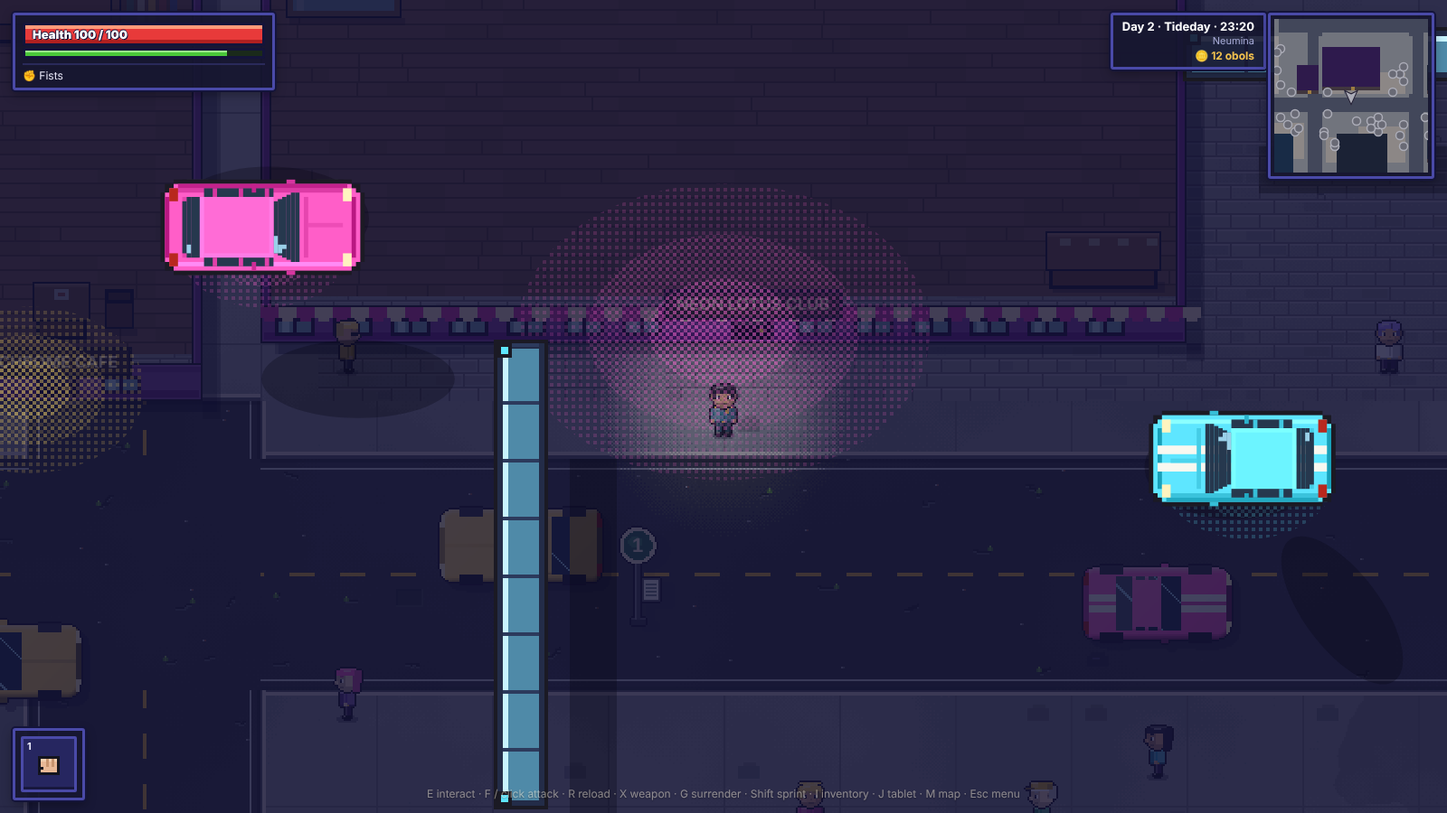
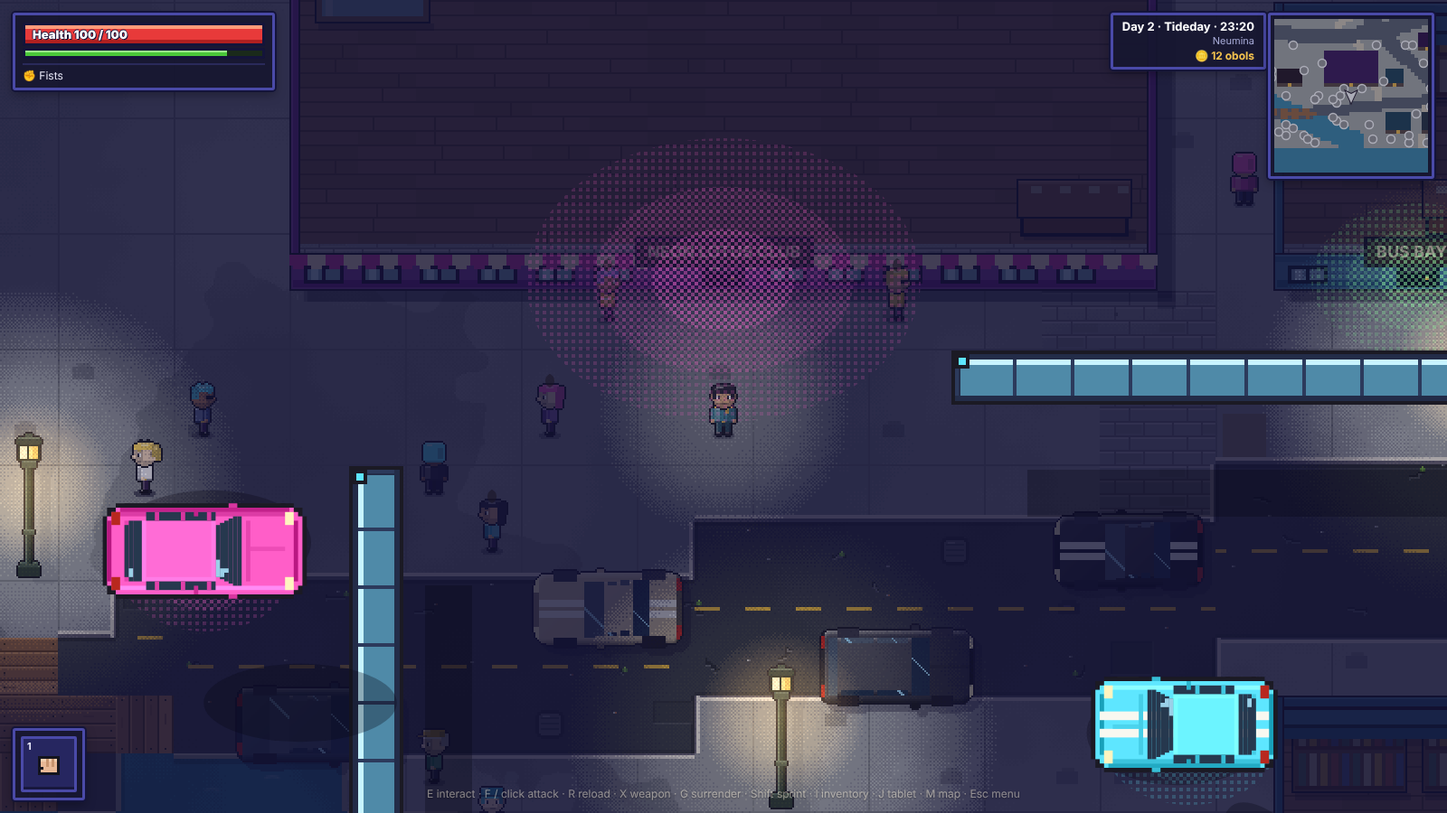
Post-War mock-ups: organic cities (hub-and-spoke Neumina with canal and ring road; curved harbour Saint Halloran with river, diagonal boulevard and winding lanes), re-shot in the game's own engine
Claude-Session: https://claude.ai/code/session_01TDGC6Q79idfz2CwS4VYJ4q

diff --git a/docs/mockups/postwar-src/organic.js b/docs/mockups/postwar-src/organic.js
@@ -1,0 +1,58 @@
+// Organic city generator (mock only): roads are curves stamped onto the game's tile grid, buildings are placed off the roads wherever a
+// door can reach pavement. Output is the game's own map format, drawn by the game's own renderer.
+import { STYLES } from './pwmaps.js';
+const hash = (a, b = 0, c = 0) => { let h = ((a | 0) * 374761393 + (b | 0) * 668265263 + (c | 0) * 2147483647) >>> 0; h = ((h ^ (h >>> 13)) * 1274126177) >>> 0; return ((h ^ (h >>> 16)) >>> 0) / 4294967296; };
+const pick = (arr, k, s = 0) => arr[Math.floor(hash(k, arr.length, 7 + s) * arr.length) % arr.length];
+export function smooth(pts, seg = 10) { const P = [pts[0], ...pts, pts[pts.length - 1]]; const out = []; for (let i = 1; i < P.length - 2; i++) { const [p0, p1, p2, p3] = [P[i - 1], P[i], P[i + 1], P[i + 2]]; for (let k = 0; k < seg; k++) { const t = k / seg, t2 = t * t, t3 = t2 * t; out.push([0, 1].map((j) => 0.5 * (2 * p1[j] + (-p0[j] + p2[j]) * t + (2 * p0[j] - 5 * p1[j] + 4 * p2[j] - p3[j]) * t2 + (-p0[j] + 3 * p1[j] - 3 * p2[j] + p3[j]) * t3))); } } out.push(pts[pts.length - 1]); return out; }
+export function organic(cfg) {
+  const { W, H } = cfg; const base = cfg.ground || ','; const g = Array.from({ length: H }, () => Array(W).fill(base));
+  const inb = (x, y) => x >= 0 && y >= 0 && x < W && y < H; const set = (x, y, c) => { if (inb(x, y)) g[y][x] = c; }; const get = (x, y) => (inb(x, y) ? g[y][x] : 'x');
+  const T = {
+    get, set, W, H,
+    where(fn, c) { for (let y = 0; y < H; y++) for (let x = 0; x < W; x++) if (fn(x, y)) g[y][x] = c; },
+    disc(cx, cy, r, c) { for (let y = Math.floor(cy - r); y <= cy + r; y++) for (let x = Math.floor(cx - r); x <= cx + r; x++) if ((x + 0.5 - cx) ** 2 + (y + 0.5 - cy) ** 2 <= r * r) set(x, y, c); },
+    stroke(path, w, c, only) { for (let i = 0; i < path.length - 1; i++) { const [a, b] = [path[i], path[i + 1]]; const n = Math.max(1, Math.ceil(Math.hypot(b[0] - a[0], b[1] - a[1]) * 2)); for (let k = 0; k <= n; k++) { const x = a[0] + (b[0] - a[0]) * k / n, y = a[1] + (b[1] - a[1]) * k / n; for (let yy = Math.floor(y - w / 2); yy <= y + w / 2; yy++) for (let xx = Math.floor(x - w / 2); xx <= x + w / 2; xx++) if ((xx + 0.5 - x) ** 2 + (yy + 0.5 - y) ** 2 <= (w / 2) ** 2 && (!only || only.includes(get(xx, yy)))) set(xx, yy, c); } } },
+    rect(x, y, w, h, c) { for (let j = y; j < y + h; j++) for (let i = x; i < x + w; i++) set(i, j, c); },
+  };
+  cfg.paint(T);                                              // water, plazas, the road curves
+  const roadPaths = cfg.roads.map((r) => ({ ...r, path: smooth(r.pts, 10) }));
+  for (const r of roadPaths) { T.stroke(r.path, r.w, r.tile || '=', [base, ',', 'g', 'm', '=', '~', 'b']); }
+  // bridges: road tiles that sit where water was (re-stamp as bridge)
+  for (const r of roadPaths) for (const p of r.path) for (let y = Math.floor(p[1] - r.w / 2); y <= p[1] + r.w / 2; y++) for (let x = Math.floor(p[0] - r.w / 2); x <= p[0] + r.w / 2; x++) if (cfg.isWater?.(x, y) && (x + 0.5 - p[0]) ** 2 + (y + 0.5 - p[1]) ** 2 <= (r.w / 2) ** 2) set(x, y, 'b');
+  let st = 12345; const R = () => { st |= 0; st = (st + 0x6D2B79F5) | 0; let t = Math.imul(st ^ (st >>> 15), 1 | st); t = (t + Math.imul(t ^ (t >>> 7), 61 | t)) ^ t; return ((t ^ (t >>> 14)) >>> 0) / 4294967296; };
+  const laneTiles = [];
+  for (let k = 0; k < (cfg.lanes ?? 70); k++) { const r = roadPaths[Math.floor(R() * roadPaths.length)]; const pi = Math.floor(R() * r.path.length); const [px, py] = r.path[pi]; const nxt = r.path[Math.min(r.path.length - 1, pi + 1)], prv = r.path[Math.max(0, pi - 1)]; const an = Math.atan2(nxt[1] - prv[1], nxt[0] - prv[0]) + (R() < 0.5 ? 1 : -1) * (Math.PI / 2 + (R() - 0.5) * 0.7); const L = 8 + Math.floor(R() * 14); const off0 = r.w / 2 + 1; const pts = []; let a2 = an, x = px + Math.cos(an) * off0, y = py + Math.sin(an) * off0; pts.push([x, y]); for (let i = 0; i < L; i++) { a2 += (R() - 0.5) * 0.25; x += Math.cos(a2); y += Math.sin(a2); const tx = Math.floor(x), ty = Math.floor(y); if (!inb(tx, ty)) break; if (g[ty][tx] === '=' || g[ty][tx] === '~' || g[ty][tx] === 'b') break; pts.push([x, y]); } if (pts.length < 6) continue; T.stroke(pts, 2, cfg.laneTile || ',', [base]); for (const p of pts) laneTiles.push([Math.floor(p[0]), Math.floor(p[1])]); }
+  // distance to the nearest road tile (4-neighbour BFS), so doors can be pointed at a street
+  const dist = Array.from({ length: H }, () => Array(W).fill(99)); const q = [];
+  for (let y = 0; y < H; y++) for (let x = 0; x < W; x++) if (g[y][x] === '=' || g[y][x] === 'b' || g[y][x] === 'm') { dist[y][x] = 0; q.push([x, y]); }
+  for (const [x, y] of laneTiles) if (inb(x, y) && dist[y][x] !== 0) { dist[y][x] = 0; q.push([x, y]); }
+  for (let i = 0; i < q.length; i++) { const [x, y] = q[i]; for (const [dx, dy] of [[1, 0], [-1, 0], [0, 1], [0, -1]]) { const nx = x + dx, ny = y + dy; if (inb(nx, ny) && dist[ny][nx] > dist[y][x] + 1) { dist[ny][nx] = dist[y][x] + 1; q.push([nx, ny]); } } }
+  const occ = Array.from({ length: H }, () => Array(W).fill(false)); const free = new Set([base, ',', 'g']);
+  const REJ = { bounds: 0, occ: 0, free: 0, front: 0, reach: 0, ok: 0 }; const buildings = [], props = [], meta = { REJ, blds: [], plazas: cfg.plazas || [], roads: roadPaths.map((r) => ({ w: r.w, path: r.path, name: r.name })) }; let bn = 0, pn = 0;
+  const P = (type, x, y, o = {}) => { if (inb(x, y)) props.push({ id: `p${pn++}`, type, x, y, ...o }); };
+  const fits = (x, y, w, h) => { REJ.last = ''; if (x < 2 || y < 2 || x + w > W - 2 || y + h > H - 4) { REJ.bounds++; REJ.last = 'bounds'; return false; } for (let j = y - 1; j <= y + h + 1; j++) for (let i = x - 1; i <= x + w; i++) { if (!inb(i, j) || occ[j][i]) { REJ.occ++; REJ.last = 'occ ' + i + ',' + j; return false; } if (!(j >= y && j < y + h && i >= x && i < x + w) && g[j][i] === 'B') return false; if (!free.has(g[j][i])) { REJ.free++; REJ.last = 'free ' + g[j][i] + ' @' + i + ',' + j; return false; } } const dx = x + (w >> 1); for (let j = y + h; j <= y + h + 2; j++) if (!free.has(get(dx, j)) || occ[j]?.[dx]) { REJ.front++; REJ.last = 'front'; return false; } const okr = dist[Math.min(H - 1, y + h + 1)][dx] <= (cfg.reach || 4); okr ? REJ.ok++ : REJ.reach++; return okr; };
+  const place = (b, st) => { buildings.push(b); for (let j = b.y; j < b.y + b.h; j++) for (let i = b.x; i < b.x + b.w; i++) g[j][i] = 'B'; for (let j = b.y - 1; j <= b.y + b.h + 1; j++) for (let i = b.x - 1; i <= b.x + b.w; i++) if (inb(i, j)) occ[j][i] = true; for (let j = b.y + b.h; j <= b.y + b.h + 2; j++) occ[j] && (occ[j][b.door.x] = true); meta.blds.push({ id: b.id, name: b.name, x: b.x, y: b.y, w: b.w, h: b.h, tower: b.tower, style: st, key: b.key }); };
+  const mkBuilding = (name, x, y, w, h, S, k, o = {}) => { const wall = o.wall || pick(S.walls, k), roof = o.roof || pick(S.roofs, k + 1), trim = o.trim || pick(S.trims, k + 2), neon = o.neon || pick(S.neons, k + 3); const door = { x: x + (w >> 1), y: y + h - 1 };
+    if (o.tower) return { id: `b${bn++}`, name, mapLabel: name, x, y, w, h, tower: o.tower, wall, glass: o.glass || cfg.glass || '#8fd0e8', trim, roof, sign: o.sign || name, signColor: neon, helipad: o.helipad, door, key: o.key };
+    return { id: `b${bn++}`, name, mapLabel: name, x, y, w, h, sign: o.sign || name, signColor: neon, roof, wall, trim, flatRoof: true, awning: o.awning ?? (hash(x, y, 17) < 0.5 ? pick(S.awn, k + 4) : undefined), shabby: o.shabby, columns: o.columns, door, key: o.key }; };
+  const district = (x, y) => { let best = 1e9, bk = cfg.seeds[0]; for (const s of cfg.seeds) { const d = Math.hypot(x - s.x, y - s.y) / (s.w || 1) + (hash(x, y, 3) - 0.5) * 6; if (d < best) { best = d; bk = s; } } return bk; };
+  const used = new Set();
+  // landmarks first
+  for (const L of cfg.landmarks) { const S = STYLES[L.style || cfg.seeds[0].style]; let spot = null; const tryAt = (x, y) => fits(x, y, L.w, L.h); if (tryAt(L.x, L.y)) spot = [L.x, L.y]; for (let r = 1; r < 40 && !spot; r++) for (let a = 0; a < 24 && !spot; a++) { const x = Math.round(L.x + r * Math.cos(a / 24 * 6.283)), y = Math.round(L.y + r * Math.sin(a / 24 * 6.283)); if (tryAt(x, y)) spot = [x, y]; } if (!spot) { console.log('NO SPOT', L.name); continue; }
+    const b = mkBuilding(L.name, spot[0], spot[1], L.w, L.h, S, 5, { ...(L.o || {}), tower: L.tower, key: L.key, sign: L.sign || L.name, helipad: L.o?.helipad }); used.add(L.name); place(b, L.style || 'landmark'); }
+  // fill
+  for (let pass = 0; pass < cfg.passes.length; pass++) { const ps = cfg.passes[pass]; for (let i = 0; i < ps.tries; i++) { const x = 2 + Math.floor(R() * (W - 4)), y = 2 + Math.floor(R() * (H - 8)); const sd = district(x, y); const S = STYLES[sd.style]; if (!S) continue;
+      const w = (sd.wmin || 5) + Math.floor(R() * ((sd.wmax || 10) - (sd.wmin || 5) + 1)) - ps.shrink, h = (sd.dmin || 6) + Math.floor(R() * ((sd.dmax || 9) - (sd.dmin || 6) + 1)) - ps.shrink; if (w < 4 || h < 4) continue; if (!fits(x, y, w, h)) continue;
+      let name = pick(S.names, x * 31 + y * 7 + i); for (let t = 0; used.has(name) && t < S.names.length; t++) name = S.names[(S.names.indexOf(name) + 1) % S.names.length]; used.add(name);
+      const isT = (sd.towers || 0) > R() && w >= 6 && h >= 7; const k = Math.floor(hash(x, y, 11) * 1000);
+      place(mkBuilding(name, x, y, w, h, S, k, { tower: isT ? 9 + Math.floor(R() * 24) : 0, helipad: isT && hash(i, pass, 10) < 0.3, shabby: sd.shabby && hash(i, pass, 12) < 0.4, columns: sd.columns && hash(i, pass, 13) < 0.5 }), sd.style); } }
+  // street furniture: lamps along each road, a few other props on pavement beside roads
+  for (const r of roadPaths) { let acc = 0, side = 1; for (let i = 1; i < r.path.length; i++) { const [a, b] = [r.path[i - 1], r.path[i]]; acc += Math.hypot(b[0] - a[0], b[1] - a[1]); if (acc < (cfg.lampStep || 12)) continue; acc = 0; side = -side; const an = Math.atan2(b[1] - a[1], b[0] - a[0]); const off = r.w / 2 + 0.9; const x = Math.round(b[0] - Math.sin(an) * off * side - 0.5), y = Math.round(b[1] + Math.cos(an) * off * side - 0.5); if (free.has(get(x, y)) && !props.some((p) => p.x === x && p.y === y)) P('streetlamp', x, y); } }
+  for (let y = 2; y < H - 2; y++) for (let x = 2; x < W - 2; x++) if (free.has(g[y][x]) && dist[y][x] === 1 && hash(x, y, 77) < 0.012 && !occ[y][x]) P(pick(cfg.sidewalkProps || ['hydrant', 'trashbarrel', 'bench', 'plant'], x * 3 + y), x, y);
+  for (const z of cfg.plazas || []) { if (z.fountain) P('fountain', Math.round(z.cx) - 1, Math.round(z.cy) - 1); for (let i = 0; i < (z.trees || 0); i++) { const a = hash(z.cx, i, 1) * 6.283, rr = (z.r - 2) * (0.55 + hash(z.cy, i, 2) * 0.4); P('tree', Math.round(z.cx + rr * Math.cos(a)), Math.round(z.cy + rr * Math.sin(a))); } }
+  for (const p of cfg.props || []) P(p.type, p.x, p.y, p.o || {});
+  // keep door fronts clear
+  const dc = new Set(buildings.map((b) => `${b.door.x},${b.door.y + 1}`)); for (let i = props.length - 1; i >= 0; i--) if (dc.has(`${props[i].x},${props[i].y}`) || g[props[i].y]?.[props[i].x] === 'B') props.splice(i, 1);
+  const def = { id: cfg.id, name: cfg.name, kind: 'outdoor', tiles: g.map((r) => r.join('')), buildings, props, spots: { start: { x: cfg.start[0], y: cfg.start[1], facing: 'down' } }, areas: [] };
+  meta.fits = fits; meta.dist = dist; return { def, meta };
+}

diff --git a/docs/mockups/postwar-src/halloran2.js b/docs/mockups/postwar-src/halloran2.js
@@ -1,0 +1,40 @@
+// Saint Halloran v2: a curved harbour town: coast, river, a diagonal boulevard into a roundabout, winding Old Town lanes. 170 x 110. Mock only.
+import { organic, smooth } from './organic.js';
+const coast = (x) => 86 + 5 * Math.sin(x / 13) + 3 * Math.sin(x / 5.3);
+const dpath = (path, x, y) => { let m = 1e9; for (const p of path) m = Math.min(m, Math.hypot(p[0] - x, p[1] - y)); return m; };
+const river = smooth([[170, 26], [152, 32], [140, 48], [130, 68], [122, 84]], 10);
+const quay = []; for (let x = 0; x <= 170; x += 12) quay.push([x, coast(x) - 6]);
+export const CFG = {
+  id: 'halloran', name: 'Saint Halloran', W: 170, H: 110, start: [92, 60], ground: ',', lampStep: 11, reach: 16, glass: '#9cc0d2', sidewalkProps: ['hydrant', 'trashbarrel', 'bench', 'plant', 'barrel'],
+  isWater: (x, y) => dpath(river, x + 0.5, y + 0.5) < 3.8,
+  paint(T) { T.where((x, y) => y > coast(x), '~'); T.stroke(river, 7, '~'); T.disc(88, 56, 9, 'm'); T.disc(150, 74, 6, 'm');
+    for (const x0 of [12, 28, 46, 62, 78, 98, 112, 138, 154]) for (let y = Math.floor(coast(x0)) - 1; y < coast(x0) + 8 + (x0 % 7); y++) for (let dx = 0; dx < 3; dx++) T.set(x0 + dx, y, 'p'); },
+  roads: [
+    { name: 'Velvet Strip', w: 4, pts: [[18, 4], [44, 20], [68, 40], [88, 56]] }, { name: 'Halloran Avenue', w: 4, pts: [[0, 64], [28, 68], [58, 64], [88, 56], [116, 58], [142, 62], [169, 60]] },
+    { name: 'Courthouse Road', w: 4, pts: [[88, 56], [110, 36], [135, 18], [168, 10]] }, { name: 'Pier Row', w: 4, pts: [[88, 56], [93, 70], [90, 82]] }, { name: 'Hush Lane Road', w: 4, pts: [[88, 56], [62, 72], [32, 78], [0, 76]] },
+    { name: 'Quay Road', w: 4, pts: quay }, { name: 'Old Town Lane', w: 3, pts: [[10, 20], [26, 26], [38, 34], [52, 46], [66, 58]] }, { name: 'Lantern Row', w: 3, pts: [[6, 40], [22, 44], [36, 52], [50, 62]] },
+    { name: 'Tea Alley', w: 3, pts: [[30, 8], [34, 22], [28, 34], [22, 46]] }, { name: 'Ledger Lane', w: 3, pts: [[96, 20], [104, 30], [100, 42], [92, 52]] }, { name: 'Maple Walk', w: 3, pts: [[116, 58], [124, 74], [136, 76], [150, 74]] },
+    { name: 'Dock Spur', w: 3, pts: [[28, 68], [34, 80], [46, 84]] }, { name: 'North Row', w: 3, pts: [[44, 20], [70, 14], [96, 20]] },
+  ],
+  seeds: [
+    { x: 28, y: 24, style: 'r_lan', wmin: 4, wmax: 8, dmin: 6, dmax: 9 }, { x: 52, y: 34, style: 'r_lan', wmin: 4, wmax: 8, dmin: 6, dmax: 9 }, { x: 12, y: 50, style: 'r_ten', shabby: true, wmin: 4, wmax: 7, dmin: 6, dmax: 9 },
+    { x: 76, y: 30, style: 'r_van', towers: 0.1, wmin: 6, wmax: 11, dmin: 7, dmax: 10 }, { x: 98, y: 44, style: 'r_van', wmin: 6, wmax: 10, dmin: 7, dmax: 9 },
+    { x: 138, y: 26, style: 'r_civ', columns: true, wmin: 7, wmax: 12, dmin: 7, dmax: 11 }, { x: 150, y: 48, style: 'r_mhe', wmin: 5, wmax: 9, dmin: 6, dmax: 9 },
+    { x: 44, y: 76, style: 'r_kes', wmin: 9, wmax: 16, dmin: 7, dmax: 10 }, { x: 100, y: 78, style: 'r_kes', wmin: 9, wmax: 16, dmin: 7, dmax: 10 }, { x: 64, y: 82, style: 'r_kes', wmin: 9, wmax: 14, dmin: 7, dmax: 9 }, { x: 140, y: 74, style: 'r_mhe', wmin: 5, wmax: 9, dmin: 6, dmax: 9 },
+  ],
+  plazas: [{ cx: 88, cy: 56, r: 9, fountain: true, trees: 4 }, { cx: 150, cy: 74, r: 6, trees: 5 }],
+  landmarks: [
+    { key: 'casino', name: 'GILDED ACE CASINO', style: 'r_van', x: 70, y: 22, w: 17, h: 14, o: { wall: '#8a3a44', roof: '#2e1a1e', trim: '#1a0c10', neon: '#ffc846', awning: '#c8a030' } },
+    { key: 'verona', name: 'CLUB VERONA', style: 'r_van', x: 88, y: 28, w: 9, h: 11, o: { wall: '#7a3a54', neon: '#ff8aa8', awning: '#a82a5a' } },
+    { key: 'lantern', name: 'LANTERN HALL', style: 'r_lan', x: 26, y: 20, w: 15, h: 12, o: { wall: '#8a5a36', roof: '#3a2a22', trim: '#2a1c14', neon: '#ffc846', awning: '#b83a2a' } },
+    { key: 'cityhall', name: 'CITY HALL', style: 'r_civ', x: 132, y: 22, w: 14, h: 13, o: { wall: '#a6a6b6', roof: '#4a4c58', neon: '#dce6ff', columns: true } },
+    { key: 'police', name: 'STATION 6 POLICE', style: 'r_civ', x: 148, y: 12, w: 10, h: 11, o: { wall: '#8a96aa', roof: '#3a4252', neon: '#8ab4ff' } },
+    { key: 'union', name: 'KESTREL UNION HALL', style: 'r_kes', x: 40, y: 72, w: 15, h: 10, o: { wall: '#4a6a84', neon: '#6ec0f0', awning: '#2a6a9a' } },
+    { key: 'pier3', name: 'PIER 3 WAREHOUSE', style: 'r_kes', x: 96, y: 72, w: 16, h: 10, o: { wall: '#566a7a', roof: '#222c36', neon: '#ff5a5a' } },
+    { key: 'reyes', name: "MAMA REYES' GROCERY", style: 'r_ten', x: 16, y: 56, w: 9, h: 8, o: { wall: '#80604a', neon: '#8aff9a', awning: '#2a7a3a' } },
+    { key: 'station', name: 'CENTRAL RAIL STATION', style: 'r_civ', x: 140, y: 64, w: 13, h: 10, o: { wall: '#9a9aaa', roof: '#44444e', neon: '#ffe9a0', columns: true } },
+  ],
+  passes: [{ tries: 60000, shrink: 0 }, { tries: 80000, shrink: 1 }, { tries: 100000, shrink: 2 }],
+  props: [{ type: 'statue', x: 90, y: 59 }, { type: 'barrelfire', x: 36, y: 60 }, { type: 'crane', x: 58, y: 84, o: { w: 3, h: 2 } }, { type: 'crane', x: 106, y: 84, o: { w: 3, h: 2 } }, { type: 'crate', x: 62, y: 85 }, { type: 'crate', x: 64, y: 85 }, { type: 'barrel', x: 110, y: 85 }],
+};
+export const build = () => organic(CFG);

diff --git a/docs/mockups/postwar-src/neumina2.js b/docs/mockups/postwar-src/neumina2.js
@@ -1,0 +1,40 @@
+// Neumina v2: a hub-and-spoke city (radial avenues, a ring road, a canal) rather than a grid. 170 x 110 tiles. Mock only.
+import { organic, smooth } from './organic.js';
+const dpath = (path, x, y) => { let m = 1e9; for (const p of path) m = Math.min(m, Math.hypot(p[0] - x, p[1] - y)); return m; };
+const canal = smooth([[0, 84], [22, 76], [44, 88], [64, 96], [92, 108]], 10);
+const ring = []; for (let a = 0; a < 13; a++) { const t = a / 12 * 6.283; ring.push([85 + 38 * Math.cos(t) + Math.sin(t * 3) * 2, 56 + 25 * Math.sin(t) + Math.cos(t * 2) * 2]); }
+export const CFG = {
+  id: 'neumina', name: 'Neumina', W: 170, H: 110, start: [100, 70], ground: 'g', lampStep: 11, reach: 16, glass: '#a8f0ff',
+  isWater: (x, y) => dpath(canal, x + 0.5, y + 0.5) < 3.2,
+  paint(T) { T.stroke(canal, 6, '~'); T.disc(85, 56, 10, 'm'); T.disc(30, 91, 7, 'm'); T.disc(128, 40, 5, 'm'); },
+  roads: [
+    { name: 'Spire Way', w: 4, pts: [[85, 56], [110, 40], [135, 22], [166, 8]] }, { name: 'Kiln Road', w: 4, pts: [[85, 56], [115, 58], [145, 66], [168, 64]] },
+    { name: 'Meridian Run', w: 4, pts: [[85, 56], [100, 78], [120, 96], [140, 108]] }, { name: 'Seam Run', w: 4, pts: [[85, 56], [62, 76], [40, 92], [18, 106]] },
+    { name: 'Stackhaven Way', w: 4, pts: [[85, 56], [55, 52], [28, 44], [2, 46]] }, { name: 'Halcyon Road', w: 4, pts: [[85, 56], [70, 34], [55, 14], [40, 1]] },
+    { name: 'Ring Road', w: 4, pts: ring.concat(ring.slice(0, 3)) }, { name: 'North Link', w: 3, pts: [[55, 14], [85, 12], [110, 14], [135, 22]] }, { name: 'South Link', w: 3, pts: [[40, 92], [70, 100], [100, 98], [120, 96]] },
+    { name: 'Glass Mile', w: 3, pts: [[100, 78], [112, 70], [126, 74], [145, 66]] }, { name: 'Lane A', w: 3, pts: [[28, 44], [38, 30], [50, 26], [55, 14]] }, { name: 'Lane B', w: 3, pts: [[18, 70], [30, 62], [46, 66], [62, 76]] },
+  ],
+  seeds: [
+    { x: 112, y: 38, style: 'n_corp', towers: 0.6, wmin: 7, wmax: 12, dmin: 8, dmax: 12 }, { x: 136, y: 30, style: 'n_corp', towers: 0.5, wmin: 7, wmax: 12, dmin: 8, dmax: 12 }, { x: 150, y: 14, style: 'n_lab', wmin: 6, wmax: 11, dmin: 7, dmax: 10 },
+    { x: 100, y: 70, style: 'n_ent', towers: 0.3, wmin: 5, wmax: 9, dmin: 6, dmax: 9 }, { x: 70, y: 66, style: 'n_ent', towers: 0.3, wmin: 5, wmax: 9, dmin: 6, dmax: 9 },
+    { x: 45, y: 34, style: 'n_res', towers: 0.3, wmin: 5, wmax: 8, dmin: 6, dmax: 9 }, { x: 28, y: 62, style: 'n_res', towers: 0.3, wmin: 5, wmax: 8, dmin: 6, dmax: 9 }, { x: 62, y: 20, style: 'n_res', towers: 0.25, wmin: 5, wmax: 8, dmin: 6, dmax: 9 },
+    { x: 26, y: 98, style: 'n_seam', shabby: true, wmin: 4, wmax: 7, dmin: 5, dmax: 8 }, { x: 56, y: 100, style: 'n_seam', shabby: true, wmin: 4, wmax: 7, dmin: 5, dmax: 8 },
+    { x: 140, y: 84, style: 'n_ind', wmin: 9, wmax: 16, dmin: 8, dmax: 13 }, { x: 156, y: 52, style: 'n_ind', wmin: 9, wmax: 15, dmin: 8, dmax: 12 }, { x: 120, y: 100, style: 'n_ind', wmin: 9, wmax: 15, dmin: 8, dmax: 12 },
+    { x: 92, y: 92, style: 'n_tran', towers: 0.15, wmin: 6, wmax: 11, dmin: 7, dmax: 10 },
+  ],
+  plazas: [{ cx: 85, cy: 56, r: 10, fountain: true, trees: 6 }, { cx: 30, cy: 91, r: 7 }],
+  landmarks: [
+    { key: 'tower', name: 'ORRIN-VOSS TOWER', style: 'n_corp', x: 112, y: 30, w: 13, h: 13, tower: 32, o: { wall: '#4c5ea8', glass: '#a8f0ff', trim: '#151c40', neon: '#ffd75e', helipad: true } },
+    { key: 'kade', name: 'KADE LOGISTICS', style: 'n_corp', x: 130, y: 22, w: 13, h: 12, tower: 24, o: { wall: '#3f5a96', trim: '#101a38', neon: '#5ee6ff', helipad: true } },
+    { key: 'lab', name: 'HALCYON WORKS', style: 'n_lab', x: 148, y: 14, w: 17, h: 14, o: { wall: '#7a3a6e', roof: '#341a30', trim: '#1c0c1a', neon: '#ff5a6a', awning: '#b03a4a' } },
+    { key: 'lotus', name: 'NEON LOTUS CLUB', style: 'n_ent', x: 96, y: 62, w: 15, h: 10, o: { wall: '#8a3fa6', roof: '#40205c', trim: '#221034', neon: '#ff5ec8', awning: '#d03aa8' } },
+    { key: 'station', name: 'MERIDIAN LOOP STATION', style: 'n_tran', x: 84, y: 86, w: 20, h: 12, o: { wall: '#3f7aa0', roof: '#1e3a52', trim: '#102232', neon: '#5ee6ff', awning: '#2f9ab8' } },
+    { key: 'noodles', name: 'NOODLE BAR 24', style: 'n_res', x: 44, y: 38, w: 8, h: 8, o: { wall: '#6a5a96', roof: '#2c2450', trim: '#1c1634', neon: '#8aff9a', awning: '#2fb470' } },
+    { key: 'mast', name: 'RELAY MAST PLANT', style: 'n_ind', x: 140, y: 80, w: 13, h: 11, o: { wall: '#4a6a80', roof: '#222c38', trim: '#141a22', neon: '#ffffff' } },
+    { key: 'synth', name: 'SYNTH RECORDS', style: 'n_ent', x: 68, y: 62, w: 10, h: 8, o: { wall: '#7a3f96', neon: '#5ee6ff' } },
+  ],
+  passes: [{ tries: 60000, shrink: 0 }, { tries: 80000, shrink: 1 }, { tries: 100000, shrink: 2 }],
+  props: [{ type: 'monitor_wall', x: 82, y: 47, o: { w: 4, h: 1 } }, { type: 'statue', x: 88, y: 60 }, { type: 'tent', x: 27, y: 88 }, { type: 'tent', x: 31, y: 88 }, { type: 'tent', x: 27, y: 93 }, { type: 'tent', x: 31, y: 93 }, { type: 'crate', x: 29, y: 91 }, { type: 'busstop', x: 78, y: 62 }],
+};
+export const build = () => organic(CFG);
+export { underground } from './neumina.js';

diff --git a/docs/mockups/postwar-src/dress.js b/docs/mockups/postwar-src/dress.js
@@ -1,10 +1,11 @@
 // Per-shot dressing: the proposed extras, kept small and drawn in the game's stepped style. Everything else is the game's own renderer.
-export async function neuStreet(S, city) { const g = window.oberverse.ui.game; const A = S.overlay();
+export async function neuStreet(S, city) { const g = window.oberverse.ui.game; const A = S.overlay(); const cx = g.player.x / 32, cy = g.player.y / 32;
   for (const b of city.def.buildings) if (b.signColor) A.glow((b.x + b.w / 2) * 32, (b.y + b.h) * 32 - 6, 34 + b.w * 5, b.signColor, 0.8);
-  A.bar(98.5 * 32, 58 * 32, 98.5 * 32, 66 * 32, 26); A.bar(110 * 32, 53 * 32, 123 * 32, 53 * 32, 26); A.fly('tempest', 94 * 32, 56 * 32, 0, '#ff5ec8', g, 1.2); A.fly('corsair', 111 * 32, 60 * 32, 180, '#5ee6ff', g, 1.2); }
+  A.bar((cx - 6) * 32, (cy + 0.6) * 32, (cx - 6) * 32, (cy + 7) * 32, 26); A.bar((cx + 4) * 32, (cy - 1) * 32, (cx + 14) * 32, (cy - 1) * 32, 26);
+  A.fly('tempest', (cx - 9) * 32, (cy + 2) * 32, 0, '#ff5ec8', g, 1.2); A.fly('corsair', (cx + 8) * 32, (cy + 5) * 32, 180, '#5ee6ff', g, 1.2); }
 export async function neuPlaza(S, city) { const g = window.oberverse.ui.game; const A = S.overlay();
   for (const b of city.def.buildings) if (b.signColor) A.glow((b.x + b.w / 2) * 32, (b.y + b.h) * 32 - 6, 30 + b.w * 4, b.signColor, 0.7);
-  A.glow(67 * 32, 50 * 32, 150, '#5ee6ff', 0.9); A.fly('regent', 60 * 32, 40 * 32, 10, '#ffd75e', g, 1.2); }
+  A.glow(85 * 32, 56 * 32, 150, '#5ee6ff', 0.9); A.fly('regent', 78 * 32, 46 * 32, 10, '#ffd75e', g, 1.2); }
 export async function neuMap(S, city) { const g = window.oberverse.ui.game; const A = S.overlay();
   for (const b of city.def.buildings) if (b.signColor) A.glow((b.x + b.w / 2) * 32, (b.y + b.h) * 32 - 6, 60 + b.w * 8, b.signColor, 0.8); }
 export async function noirStreet(S, city) { const A = S.overlay();

diff --git a/docs/POST_WAR_EXPANSION_PLAN.md b/docs/POST_WAR_EXPANSION_PLAN.md
@@ -19,11 +19,11 @@ An earlier set of pictures was drawn in my own style and did not look like the g
 | `proposal-postwar-game-noir-map.png` | the whole Saint Halloran map: harbour with piers, a river with bridges, Founders Square, the three mobs' districts |
 | `proposal-postwar-atlas-and-instances.png` | the four Atlas zoom levels and the mission lifecycle (a diagram, not a game view) |
 
-**How the two cities are made different from Halvermouth and from each other:** Neumina uses grey concrete pavement, purple and steel buildings, neon sign colours, many towers (with the game's own tower and helipad types), denser small buildings with narrow lanes, a canal on the west edge, and the proposed sky layer. Saint Halloran keeps brick paving but uses red-brown and gold buildings, awnings, rain, a harbour, a river with bridges and a square. **A limit I want to be honest about:** the game's map engine is a tile grid, so both cities still have mostly straight streets. Curved boulevards, diagonal streets and real elevated streets would need engine work (decision for you).
+**How the two cities are made different from Halvermouth and from each other:** Halvermouth is a square grid. **Neumina** is a hub-and-spoke city: six avenues radiate from a central plaza, a wobbling ring road circles it, lanes branch off, a canal cuts across the south-west with bridges, the ground is grey concrete (not brick), buildings are purple and steel with neon sign colours, many towers (the game's own tower and helipad types) and small dense blocks. **Saint Halloran** is a curved harbour town: a wavy coastline with piers, a river with bridges, a diagonal boulevard running into a roundabout square, winding Old Town lanes, brick paving, red-brown and gold buildings with awnings, and rain. The roads are curves stamped onto the game's tile grid, so they step diagonally the way a pixel-art game does; the buildings are placed wherever a door can reach a street. **A limit I want to be honest about:** buildings are still axis-aligned rectangles and every door faces south (the game's building rule), so the blocks are not as free-form as the roads. Truly rotated buildings or real elevated streets would need engine work (a decision for you).
 
 **What is the game's own and what is a proposed addition.** Everything is the real renderer **except** these mock-only extras, which would be new engine features: coloured neon light pools (the game only has warm lamp light today), the sky bridge, flying cars (drawn with the game's own car art plus a shadow and glow), and the rain streaks. Their look is in the game's stepped, dithered pixel style so they can be built on the same renderer.
 
-Sources: `mockups/postwar-src/` (`pwmaps.js` the city generator, `neumina.js`, `halloran.js`, `pwscene.js` the placement helpers, `dress.js` the extras, `screens.mjs` the screenshot run, `ingame.mjs` the browser driver; `maps.py` is the Atlas diagram). To rebuild: `PORT=8431 node server.js`, then `node docs/mockups/postwar-src/screens.mjs` (needs Playwright). **Neumina reference image:** it shows a top-down pixel street with a neon club sign, a METRO stair, pink palms and hover cars; the screenshots follow that mood with original names.
+Sources: `mockups/postwar-src/` (`organic.js` the city generator, `neumina2.js` and `halloran2.js` the two cities, `pwmaps.js` the building styles, `neumina.js` the underground level, `pwscene.js` the placement helpers, `dress.js` the extras, `screens.mjs` the screenshot run, `ingame.mjs` the browser driver; `maps.py` is the Atlas diagram). To rebuild: `PORT=8431 node server.js`, then `node docs/mockups/postwar-src/screens.mjs` (needs Playwright). **Neumina reference image:** it shows a top-down pixel street with a neon club sign, a METRO stair, pink palms and hover cars; the screenshots follow that mood with original names.
 
 ## 2. What already exists and gets reused (nothing is rebuilt)
 
